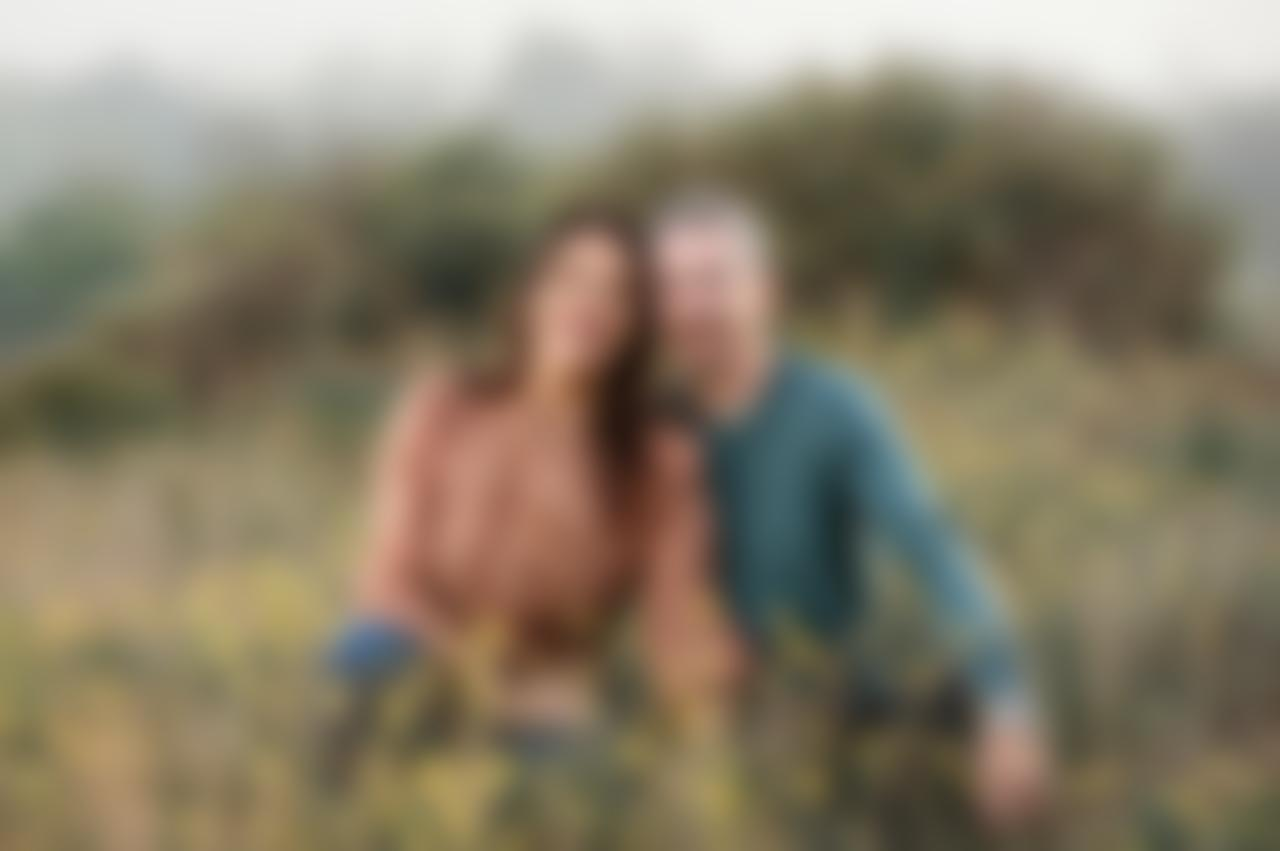
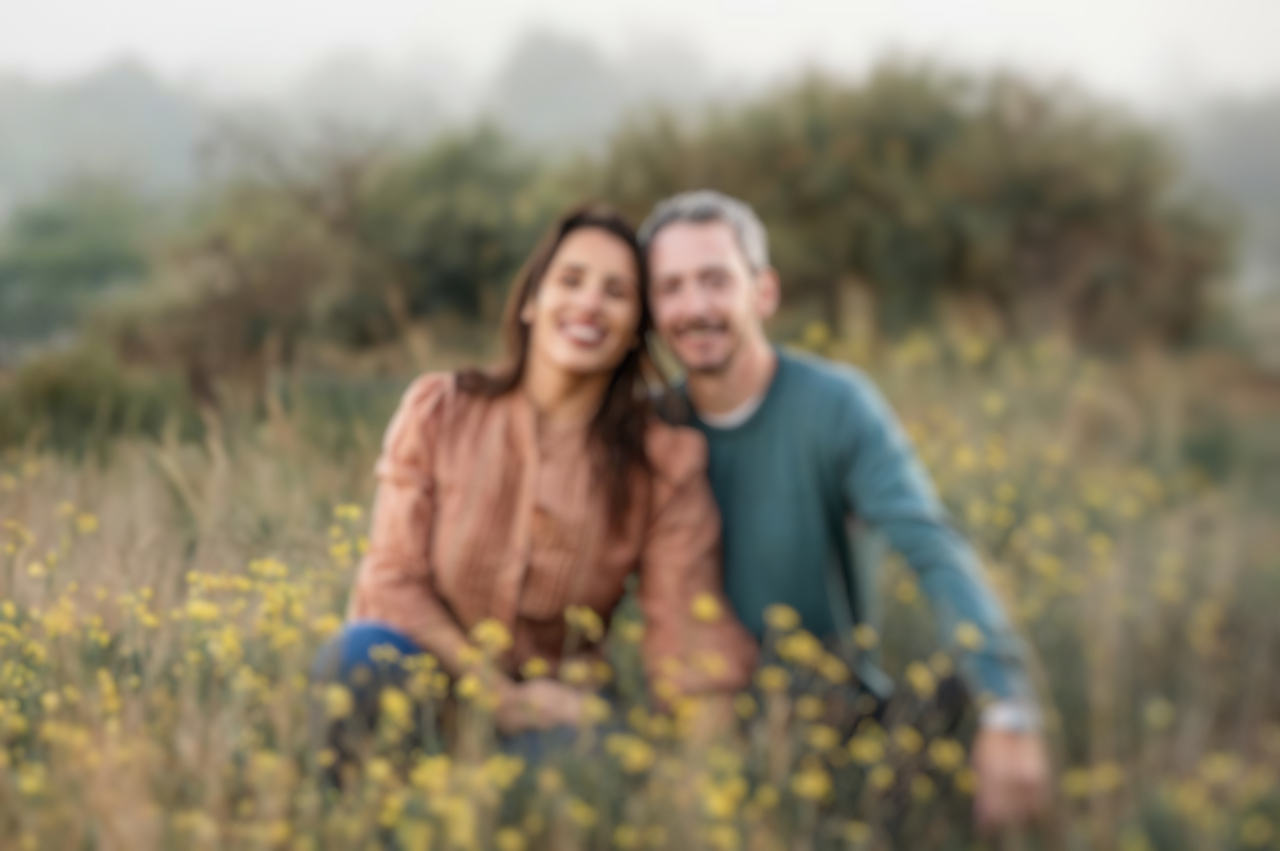
reemplazo de portada y musica

diff --git a/index.html b/index.html
@@ -35,7 +35,7 @@
 </head>
   <body cz-shortcut-listen="true">
     <div class="parallax-mirror" style="visibility: hidden; z-index: -100; position: fixed; top: 0px; left: 0px; overflow: hidden; height: 319px; width: 400px;">
-        <img class="parallax-slider" src="assets/img/portada1.jpg" style="position: absolute; height: 736px; width: 1330px; max-width: none;">
+        <img class="parallax-slider" src="assets/img/portada1.png" style="position: absolute; height: 736px; width: 1330px; max-width: none;">
       </div>
     <div class="parallax-mirror" style="visibility: visible; z-index: -100; position: fixed; top: 0px; left: 0px; overflow: hidden; transform: translate3d(0px, -600px, 0px); height: 841px; width: 400px;">
       <img class="parallax-slider" src="assets/img/portada1.jpg" style="transform: translate3d(-560px, 480px, 0px); position: absolute; height: 841px; width: 1520px; max-width: none;">

diff --git a/assets/js/script.js b/assets/js/script.js
@@ -5,12 +5,12 @@ $(".parallax-asistencia").parallax({
   
   // Portada parallax
   $(".parallax-portada").parallax({
-    imageSrc: "assets/img/portada1.jpg",
+    imageSrc: "assets/img/portada1.png",
   });
   
   // Gracias parallax
   $(".parallax-gracias").parallax({
-    imageSrc: "assets/img/portada1.jpg",
+    imageSrc: "assets/img/portada1.png",
   });
   
   // ----------------------
@@ -105,6 +105,10 @@ $(".countdown").ClassyCountdown({
     $("#btnPlay").addClass("vertical_shake");
   };
   
+  window.addEventListener('load', () => {
+    playAudio();
+});
+
   // ----------------------
   
   // Agendar en calendarios
